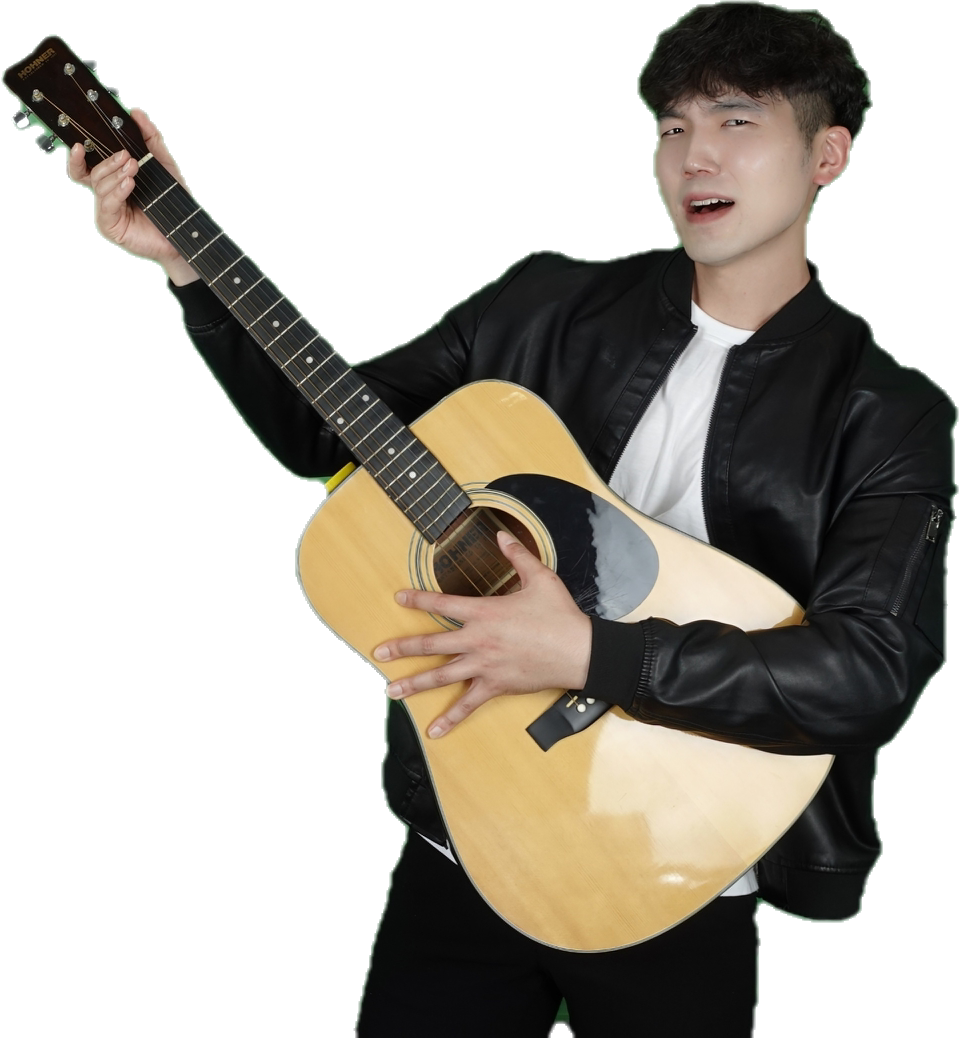
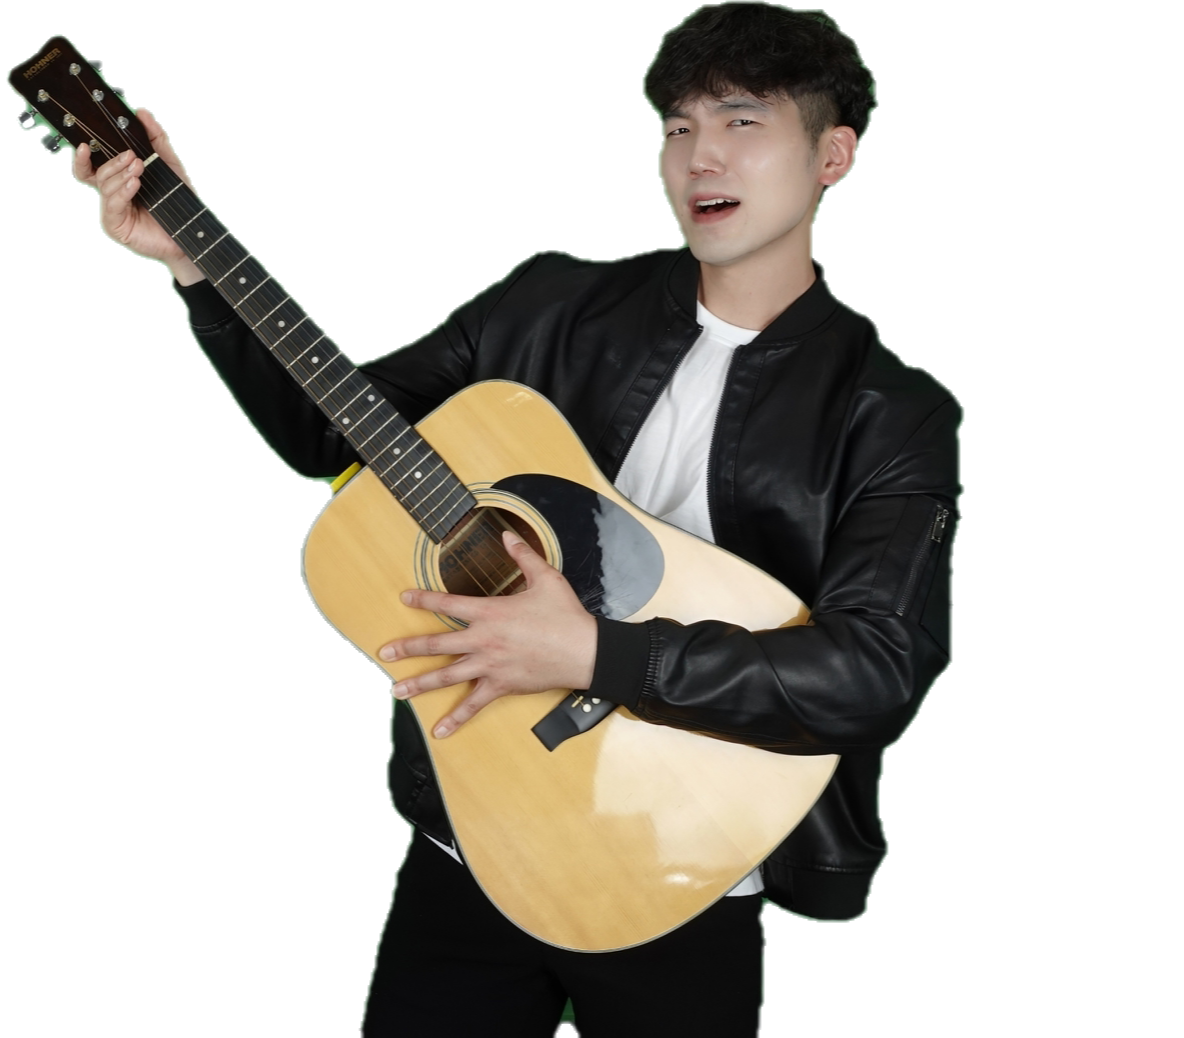
profile dennis add.

diff --git a/index.html b/index.html
@@ -108,8 +108,8 @@
             <div id="chad" class="profile">
                 <div class="profile-card">
                     <div class="profile-images">
-                        <img src="assets/images/chad_1.png" alt="profile_chad" class="profile-img">
-                        <img src="assets/images/chad_2.png" alt="profile_chad" class="profile-img">
+                        <img src="assets/images/chad_1.png" alt="profile chad" class="profile-img">
+                        <img src="assets/images/chad_2.png" alt="profile chad" class="profile-img">
                     </div>
                     <span>채드</span>
                 </div>
@@ -121,15 +121,18 @@
                 </div>
                 <div class="profile-card">
                     <div class="profile-images">
-                        <img src="assets/images/natalie-1.png" alt="profile_natalie" class="profile-img">
-                        <img src="assets/images/natalie-2.png" alt="profile_natalie" class="profile-img">
+                        <img src="assets/images/natalie-1.png" alt="profile natalie" class="profile-img">
+                        <img src="assets/images/natalie-2.png" alt="profile natalie" class="profile-img">
                     </div>
                     <span>나탈리</span>
                 </div>
             </div>
             <div id="dennis" class="profile">
                 <div class="profile-card">
-                    <img src="assets/images/profile_sample.png" alt="profile_sample" class="profile-img">
+                    <div class="profile-images">
+                        <img src="assets/images/dennis-1.png" alt="profile dennis" class="profile-img">
+                        <img src="assets/images/dennis-2.png" alt="profile dennis" class="profile-img">
+                    </div>
                     <span>데니스</span>
                 </div>
                 <div class="profile-message">좋아요. 지금 가서 말할래요.</div>
@@ -280,6 +283,7 @@
                 </div>
             </div>
         </div>
+        <!-- <iframe id="reservation" src="https://docs.google.com/forms/d/e/1FAIpQLSeQBreWIoLHrCxegO0qMcoR0qH4PGAHwaDlNzgTnC6G1iTNug/viewform?embedded=true" width="400" height="6000" frameborder="0" marginheight="0" marginwidth="0">로드 중…</iframe> -->
     </div>
 
     <!-- Load Scripts -->

diff --git a/styles/profile.css b/styles/profile.css
@@ -105,11 +105,11 @@
 }
 .profile-images .profile-img:nth-child(1) {
     bottom: 0;
-    left: -20%;
+    left: -15%;
 }
 .profile-images .profile-img:nth-child(2) {
     bottom: 0;
-    left: 35%;
+    left: 30%;
 }
 .profile-card span {
     font-size: var(--font-caption-size);
@@ -137,6 +137,9 @@
 }
 #natalie .profile-images {
     border-bottom: 6px solid var(--natalie);
+}
+#dennis .profile-images {
+    border-bottom: 6px solid var(--dennis);
 }
 
 /* .profile-message::before {
